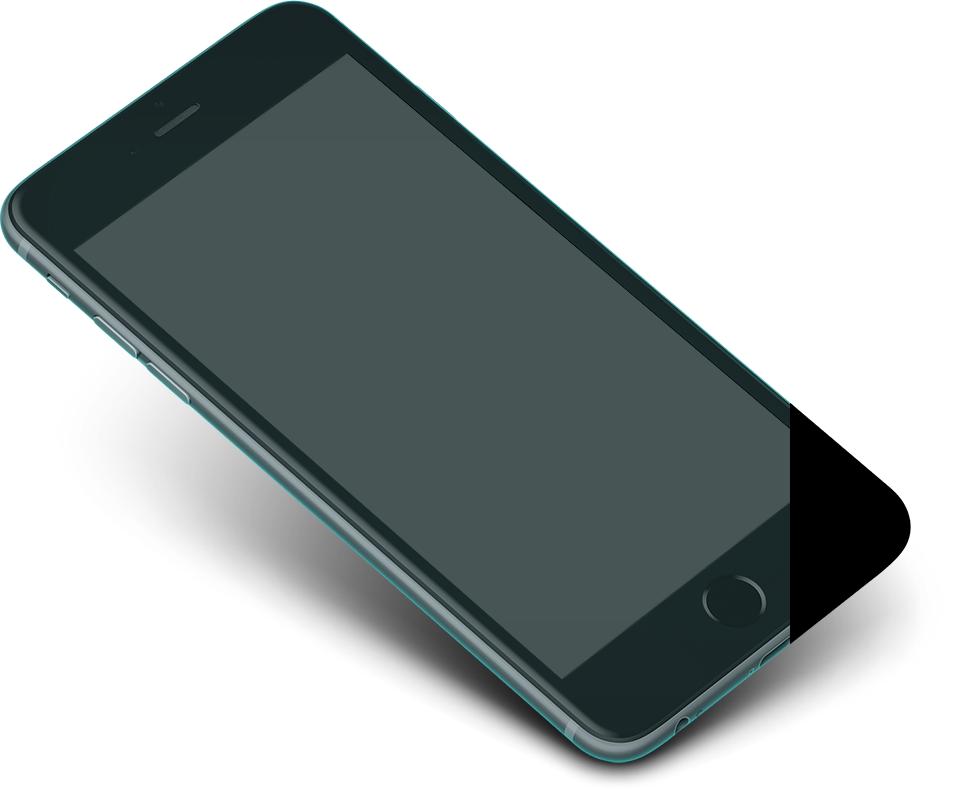
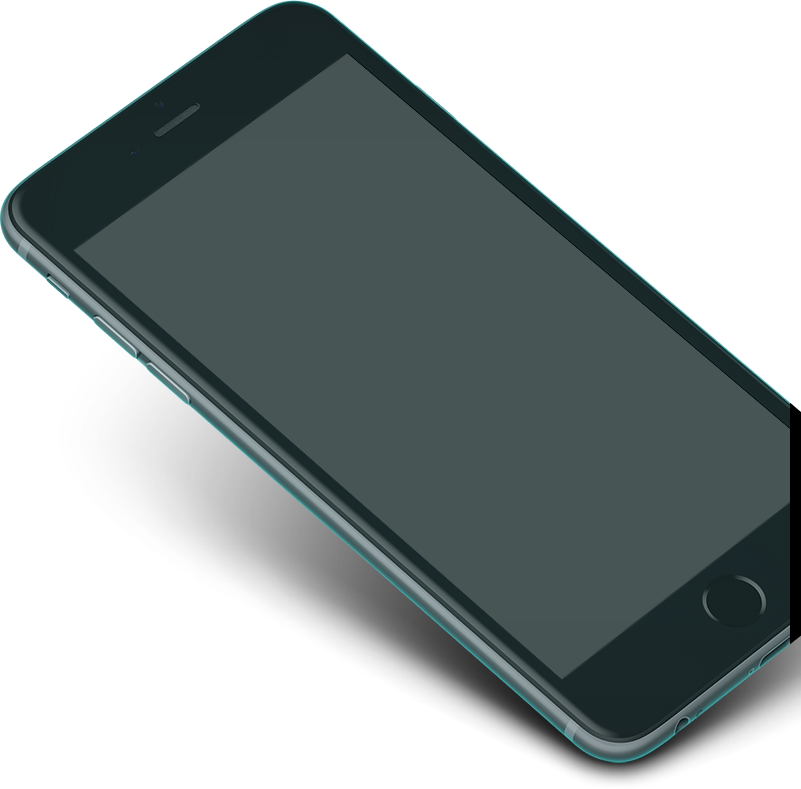
started with iphone section

Changed region(s): [[0.0, 0.0, 1.0, 1.0]]

diff --git a/src/index.html b/src/index.html
@@ -11,7 +11,7 @@
     <body>
         <!-- Promo section -->
         <section class="promo">
-            <div class="container">
+            <div class="container-small">
                 <nav class="nav">
                     <div class="nav__logo">
                         <img src="icons/logo.png" alt="Fjord logo">
@@ -38,7 +38,7 @@
 
         <!-- Features-first section -->
         <section class="features-first">
-            <div class="container">
+            <div class="container-small">
                 <div class="features-first__wrapper">
                     <div class="features-first__item">
                         <div class="icon">
@@ -87,6 +87,71 @@
                         </h3>
                         <p class="features-first__text">She gave my mother such a turn, that I have always been convinced I am indebted to Miss Betsey for having been born on a Friday.</p>
                         <a href="#" class="features-first__link">get started</a>
+                    </div>
+                </div>
+            </div>
+        </section>
+
+        <!-- Iphone section -->
+        <section class="iphone">
+            <div class="container">
+                <div class="iphone__wrapper">
+                    <div class="iphone__carousel">
+                        <!-- <img src="img/device.png" alt="iphone" class="iphone__img"> -->
+                        <img src="img/slides_test.png" alt="test" class="iphone__slide">
+                        <div class="iphone__back"></div>
+                        <div class="iphone__next"></div>
+                    </div>
+                    <div class="iphone__descr-block">
+                        <div class="iphone__description">
+                            <div class="icon">
+                                <svg width="57px" height="57px"  viewBox="0 0 57 57">
+                                    <path fill-rule="evenodd"  fill="#2f3238"
+                                    d="M51.999756,55.999146 C51.999756,55.999146 5.999878,55.999146 5.999878,55.999146 C3.7907104,55.999146 1.9998779,54.208374 1.9998779,51.99939 C1.9998779,51.99939 1.9998779,5.9992676 1.9998779,5.9992676 C1.9998779,3.7901611 3.7907104,1.9995117 5.999878,1.9995117 C5.999878,1.9995117 48.999878,1.9995117 48.999878,1.9995117 C49.552124,1.9995117 49.999878,2.4467773 49.999878,2.9993896 C49.999878,3.5515137 49.552124,3.9993896 48.999878,3.9993896 C48.999878,3.9993896 5.999878,3.9993896 5.999878,3.9993896 C4.8953247,3.9993896 3.999878,4.894409 3.999878,5.9992676 C3.999878,5.9992676 3.999878,51.99939 3.999878,51.99939 C3.999878,53.103638 4.8953247,53.999268 5.999878,53.999268 C5.999878,53.999268 51.999756,53.999268 51.999756,53.999268 C53.104492,53.999268 53.999878,53.103638 53.999878,51.99939 C53.999878,51.99939 53.999878,2.9993896 53.999878,2.9993896 C53.999878,2.4467773 54.44763,1.9995117 54.999878,1.9995117 C55.552124,1.9995117 55.999756,2.4467773 55.999756,2.9993896 C55.999756,2.9993896 55.999756,51.99939 55.999756,51.99939 C55.999756,54.208374 54.208984,55.999146 51.999756,55.999146 ZM8.999878,15.9991455 C8.999878,15.9991455 54.999878,15.9991455 54.999878,15.9991455 C55.552124,15.9991455 55.999756,16.4469 55.999756,16.999512 C55.999756,17.551147 55.552124,17.999512 54.999878,17.999512 C54.999878,17.999512 8.999878,17.999512 8.999878,17.999512 C8.447571,17.999512 7.999817,17.551147 7.999817,16.999512 C7.999817,16.4469 8.447571,15.9991455 8.999878,15.9991455 Z"/>
+                                </svg>
+                                <svg width="57px" height="57px"  viewBox="0 0 57 57">
+                                    <path fill-rule="evenodd"  fill="#26e6e6"
+                                    d="M3.999878,13.999634 C5.104431,13.999634 5.999817,14.895142 5.999817,15.999023 C5.999817,17.10376 5.104431,17.998901 3.999878,17.998901 C2.8953247,17.998901 1.9998169,17.10376 1.9998169,15.999023 C1.9998169,14.895142 2.8953247,13.999634 3.999878,13.999634 ZM11.999878,13.999634 C13.10437,13.999634 13.999878,14.895142 13.999878,15.999023 C13.999878,17.10376 13.10437,17.998901 11.999878,17.998901 C10.895325,17.998901 9.999939,17.10376 9.999939,15.999023 C9.999939,14.895142 10.895325,13.999634 11.999878,13.999634 ZM19.999878,13.999634 C21.10437,13.999634 21.999878,14.895142 21.999878,15.999023 C21.999878,17.10376 21.10437,17.998901 19.999878,17.998901 C18.895386,17.998901 17.999878,17.10376 17.999878,15.999023 C17.999878,14.895142 18.895386,13.999634 19.999878,13.999634 ZM54.999878,55.99951 C54.44763,55.99951 53.999756,55.551147 53.999756,54.99951 C53.999756,54.99951 53.999756,5.999634 53.999756,5.999634 C53.999756,4.8947754 53.10437,3.9992676 51.999878,3.9992676 C51.999878,3.9992676 3.999878,3.9992676 3.999878,3.9992676 C3.999878,3.9992676 3.999878,3.9992676 3.999878,3.9992676 C3.999878,3.9992676 2.999878,3.9992676 2.999878,3.9992676 C2.4475708,3.9992676 1.9998169,3.55188 1.9998169,2.9992676 C1.9998169,2.4471436 2.4475708,1.9993896 2.999878,1.9993896 C2.999878,1.9993896 12.999878,1.9993896 12.999878,1.9993896 C12.999878,1.9993896 12.999878,1.9993896 13.0,1.9993896 C13.0,1.9993896 51.999878,1.9993896 51.999878,1.9993896 C54.208984,1.9993896 55.999878,3.790039 55.999878,5.999634 C55.999878,5.999634 55.999878,54.99951 55.999878,54.99951 C55.999878,55.551147 55.552124,55.99951 54.999878,55.99951 Z"/>
+                                </svg>
+                            </div>
+                            <div class="iphone__text">
+                                <h3 class="iphone__header">Create a beautiful website.</h3>
+                                <p class="iphone__text">Whether you want to create a blog, eCommerce store, portfolio, or all of the above, you can express your idea with a website powered by our elegant yet intuitive platform.</p>
+                            </div>
+                        </div>
+                        <div class="iphone__description">
+                            <div class="icon">
+                                <svg width="63px" height="63px"  viewBox="0 0 63 63">
+                                    <path fill-rule="evenodd"  fill="#2f3238"
+                                    d="M60.999878,61.999268 C60.44763,61.999268 59.999878,61.551514 59.999878,60.99939 C59.999878,60.99939 59.999878,17.999512 59.999878,17.999512 C59.999878,16.894775 59.104492,15.9991455 58.0,15.9991455 C58.0,15.9991455 5.999878,15.9991455 5.999878,15.9991455 C4.8953247,15.9991455 3.999939,16.894775 3.999939,17.999512 C3.999939,17.999512 3.999939,57.99951 3.999939,57.99951 C3.999939,59.10376 4.8953247,59.999878 5.999878,59.999878 C5.999878,59.999878 54.999878,59.999878 54.999878,59.999878 C55.552246,59.999878 55.999878,60.447266 55.999878,60.99939 C55.999878,61.551514 55.552246,61.999268 54.999878,61.999268 C54.999878,61.999268 5.999878,61.999268 5.999878,61.999268 C3.7907715,61.999268 1.9998779,60.208496 1.9998779,57.99951 C1.9998779,57.99951 1.9998779,17.999512 1.9998779,17.999512 C1.9998779,15.790039 3.7907715,13.999268 5.999878,13.999268 C5.999878,13.999268 58.0,13.999268 58.0,13.999268 C60.208984,13.999268 61.999878,15.790039 61.999878,17.999512 C61.999878,17.999512 61.999878,60.99939 61.999878,60.99939 C61.999878,61.551514 61.552246,61.999268 60.999878,61.999268 ZM39.999878,13.999268 C39.999878,13.999268 39.999878,5.9992676 39.999878,5.9992676 C39.999878,4.8945312 39.104492,3.9993896 38.0,3.9993896 C38.0,3.9993896 25.999878,3.9993896 25.999878,3.9993896 C24.895386,3.9993896 23.999878,4.8945312 23.999878,5.9992676 C23.999878,5.9992676 23.999878,8.999023 23.999878,8.999023 C23.999878,9.551758 23.552124,9.999512 22.999878,9.999512 C22.447632,9.999512 21.999878,9.551758 21.999878,8.999023 C21.999878,8.999023 21.999878,5.9992676 21.999878,5.9992676 C21.999878,3.7902832 23.790771,1.9995117 25.999878,1.9995117 C25.999878,1.9995117 38.0,1.9995117 38.0,1.9995117 C40.209106,1.9995117 42.0,3.7902832 42.0,5.9992676 C42.0,5.9992676 42.0,13.999268 42.0,13.999268 C40.89978,13.999268 40.453003,13.999268 39.999878,13.999268 Z"/>
+                                </svg>
+                                <svg width="43px" height="39px"  viewBox="0 0 43 39">
+                                    <path fill-rule="evenodd"  fill="#26e6e6"
+                                    d="M8.999878,1.9993896 C9.552124,1.9993896 9.999878,2.4466553 9.999878,2.9993896 C9.999878,2.9993896 9.999878,36.999268 9.999878,36.999268 C9.999878,37.55188 9.552124,37.999146 8.999878,37.999146 C8.447632,37.999146 7.999878,37.55188 7.999878,36.999268 C7.999878,36.999268 7.999878,2.9993896 7.999878,2.9993896 C7.999878,2.4466553 8.447632,1.9993896 8.999878,1.9993896 ZM2.999939,1.9993896 C3.552246,1.9993896 3.999878,2.4466553 3.999878,2.9993896 C3.999878,2.9993896 3.999878,36.999268 3.999878,36.999268 C3.999878,37.55188 3.552246,37.999146 2.999939,37.999146 C2.4475708,37.999146 1.999939,37.55188 1.999939,36.999268 C1.999939,36.999268 1.999939,2.9993896 1.999939,2.9993896 C1.999939,2.4466553 2.4475708,1.9993896 2.999939,1.9993896 ZM40.999878,1.9993896 C41.552246,1.9993896 41.999878,2.4466553 41.999878,2.9993896 C41.999878,2.9993896 41.999878,36.999268 41.999878,36.999268 C41.999878,37.55188 41.552246,37.999146 40.999878,37.999146 C40.44763,37.999146 40.0,37.55188 40.0,36.999268 C40.0,36.999268 40.0,2.9993896 40.0,2.9993896 C40.0,2.4466553 40.44763,1.9993896 40.999878,1.9993896 ZM34.999878,1.9993896 C35.552246,1.9993896 36.0,2.4466553 36.0,2.9993896 C36.0,2.9993896 36.0,36.999268 36.0,36.999268 C36.0,37.55188 35.552246,37.999146 34.999878,37.999146 C34.44763,37.999146 33.999878,37.55188 33.999878,36.999268 C33.999878,36.999268 33.999878,2.9993896 33.999878,2.9993896 C33.999878,2.4466553 34.44763,1.9993896 34.999878,1.9993896 Z"/>
+                                </svg>
+                            </div>
+                            <div class="iphone__text">
+                                <h3 class="iphone__header">Make your our business.</h3>
+                                <p class="iphone__text">From goods to services, every business needs a space online to bring in customers.</p>
+                            </div>
+                        </div>
+                        <div class="iphone__description">
+                            <div class="icon">
+                                <svg width="64px" height="63px"  viewBox="0 0 64 63">
+                                    <path fill-rule="evenodd"  fill="#2f3238"
+                                    d="M60.79602,14.529541 C60.79602,14.529541 24.530396,50.795532 24.530396,50.795532 C23.931885,51.39441 23.19104,51.76062 22.41687,51.902344 C22.289185,51.961792 22.150024,51.999268 21.999878,51.999268 C21.999878,51.999268 12.999878,51.999268 12.999878,51.999268 C12.999878,51.999268 12.999878,51.999268 12.999878,51.999268 C12.861877,51.999268 12.730286,51.97119 12.610657,51.92102 C12.371399,51.81958 12.1796875,51.628174 12.078491,51.38855 C12.027893,51.26892 11.999939,51.137573 11.999939,50.999268 C11.999939,50.999268 11.999939,42.31482 11.999939,42.31482 C11.999634,42.289673 11.999634,42.26465 11.999939,42.238525 C11.999939,42.238525 11.999939,41.99939 11.999939,41.99939 C11.999939,41.922607 12.027222,41.854736 12.043518,41.782837 C12.149475,40.926147 12.514526,40.09497 13.172363,39.4375 C13.172363,39.4375 49.43799,3.1715088 49.43799,3.1715088 C51.006226,1.6036377 53.548706,1.6036377 55.116943,3.1715088 C55.116943,3.1715088 60.79602,8.85083 60.79602,8.85083 C62.364258,10.419067 62.364258,12.961304 60.79602,14.529541 ZM59.414185,10.244873 C59.414185,10.244873 53.72278,4.5533447 53.72278,4.5533447 C52.93701,3.7679443 51.66284,3.7679443 50.877075,4.5533447 C50.877075,4.5533447 13.999878,41.430542 13.999878,41.430542 C13.999878,41.430542 13.999878,41.99939 13.999878,41.99939 C13.999878,41.99939 13.999878,49.999878 13.999878,49.999878 C13.999878,49.999878 21.999878,49.999878 21.999878,49.999878 C21.999878,49.999878 22.505615,49.999878 22.505615,49.999878 C22.505615,49.999878 59.414185,13.091187 59.414185,13.091187 C60.200073,12.30481 60.200073,11.030762 59.414185,10.244873 ZM13.289307,40.28882 C13.697388,39.88037 14.358948,39.88037 14.767029,40.28882 C14.767029,40.28882 23.677856,49.19922 23.677856,49.19922 C24.085938,49.608154 24.085938,50.269043 23.677856,50.677002 C23.269775,51.08496 22.608276,51.08496 22.200195,50.677002 C22.200195,50.677002 13.289307,41.766113 13.289307,41.766113 C12.881226,41.358643 12.881226,40.696777 13.289307,40.28882 ZM43.289307,11.288574 C43.697388,10.880249 44.35901,10.880249 44.76709,11.288574 C44.76709,11.288574 48.677856,15.199341 48.677856,15.199341 C49.085938,15.607788 49.085938,16.269165 48.677856,16.677124 C48.269775,17.085083 47.608276,17.085083 47.200195,16.677124 C47.200195,16.677124 43.289307,12.766357 43.289307,12.766357 C42.881226,12.358398 42.881226,11.6970215 43.289307,11.288574 ZM2.999939,1.9993896 C3.552185,1.9993896 3.999939,2.4471436 3.999939,2.9992676 C3.999939,2.9992676 3.999939,60.999146 3.999939,60.999146 C3.999939,61.551758 3.552185,61.999146 2.999939,61.999146 C2.4476318,61.999146 1.9998779,61.551758 1.9998779,60.999146 C1.9998779,60.999146 1.9998779,2.9992676 1.9998779,2.9992676 C1.9998779,2.4471436 2.4476318,1.9993896 2.999939,1.9993896 ZM61.999878,60.999146 C61.999878,61.551758 61.552246,61.999146 60.999878,61.999146 C60.999878,61.999146 8.999878,61.999146 8.999878,61.999146 C8.447571,61.999146 7.999939,61.551758 7.999939,60.999146 C7.999939,60.44702 8.447571,59.999268 8.999878,59.999268 C8.999878,59.999268 60.999878,59.999268 60.999878,59.999268 C61.552246,59.999268 61.999878,60.44702 61.999878,60.999146 ZM2.999939,1.9993896 C2.999939,1.9993896 33.0,1.9993896 33.0,1.9993896 C33.552246,1.9993896 33.999878,2.4471436 33.999878,2.9992676 C33.999878,3.55188 33.552246,3.9992676 33.0,3.9992676 C33.0,3.9992676 2.999939,3.9992676 2.999939,3.9992676 C2.4476318,3.9992676 1.9998779,3.55188 1.9998779,2.9992676 C1.9998779,2.4471436 2.4476318,1.9993896 2.999939,1.9993896 ZM59.999878,60.999146 C59.999878,60.999146 59.999878,30.999023 59.999878,30.999023 C59.999878,30.4469 60.44763,29.999146 60.999878,29.999146 C61.552246,29.999146 61.999878,30.4469 61.999878,30.999023 C61.999878,30.999023 61.999878,60.999146 61.999878,60.999146 C61.999878,61.551758 61.552246,61.999146 60.999878,61.999146 C60.44763,61.999146 59.999878,61.551758 59.999878,60.999146 Z"/>
+                                </svg>
+                                <svg width="24px" height="24px"  viewBox="0 0 24 24">
+                                    <path fill-rule="evenodd"  fill="#26e6e6"
+                                    d="M21.710571,2.2890625 C22.11853,2.6968994 22.11853,3.3582764 21.710571,3.7662354 C21.710571,3.7662354 3.7996826,21.677612 3.7996826,21.677612 C3.3916016,22.085083 2.7299805,22.085083 2.3218994,21.677612 C1.9138184,21.269653 1.9138184,20.6073 2.3218994,20.19934 C2.3218994,20.19934 20.232788,2.2890625 20.232788,2.2890625 C20.640747,1.8806152 21.30249,1.8806152 21.710571,2.2890625 Z"/>
+                                </svg>
+                            </div>
+                            <div class="iphone__text">
+                                <h3 class="iphone__header">Be artist</h3>
+                                <p class="iphone__text">An artist should always have control over their creative process.</p>
+                            </div>
+                        </div>
+                        <button class="btn btn-iphone">get started</button>
                     </div>
                 </div>
             </div>

diff --git a/src/css/style.min.css b/src/css/style.min.css
@@ -4,4 +4,4 @@
  * Copyright 2011-2019 Twitter, Inc.
  * Licensed under MIT (https://github.com/twbs/bootstrap/blob/master/LICENSE)
  * Forked from Normalize.css, licensed MIT (https://github.com/necolas/normalize.css/blob/master/LICENSE.md)
- */*,::after,::before{box-sizing:border-box}html{font-family:sans-serif;line-height:1.15;-webkit-text-size-adjust:100%;-webkit-tap-highlight-color:transparent}article,aside,figcaption,figure,footer,header,hgroup,main,nav,section{display:block}body{margin:0;font-family:-apple-system,BlinkMacSystemFont,"Segoe UI",Roboto,"Helvetica Neue",Arial,"Noto Sans",sans-serif,"Apple Color Emoji","Segoe UI Emoji","Segoe UI Symbol","Noto Color Emoji";font-size:1rem;font-weight:400;line-height:1.5;color:#212529;text-align:left;background-color:#fff}[tabindex="-1"]:focus:not(:focus-visible){outline:0!important}hr{box-sizing:content-box;height:0;overflow:visible}h1,h2,h3,h4,h5,h6{margin-top:0;margin-bottom:.5rem}p{margin-top:0;margin-bottom:1rem}abbr[data-original-title],abbr[title]{text-decoration:underline;-webkit-text-decoration:underline dotted;text-decoration:underline dotted;cursor:help;border-bottom:0;-webkit-text-decoration-skip-ink:none;text-decoration-skip-ink:none}address{margin-bottom:1rem;font-style:normal;line-height:inherit}dl,ol,ul{margin-top:0;margin-bottom:1rem}ol ol,ol ul,ul ol,ul ul{margin-bottom:0}dt{font-weight:700}dd{margin-bottom:.5rem;margin-left:0}blockquote{margin:0 0 1rem}b,strong{font-weight:bolder}small{font-size:80%}sub,sup{position:relative;font-size:75%;line-height:0;vertical-align:baseline}sub{bottom:-.25em}sup{top:-.5em}a{color:#007bff;text-decoration:none;background-color:transparent}a:hover{color:#0056b3;text-decoration:underline}a:not([href]){color:inherit;text-decoration:none}a:not([href]):hover{color:inherit;text-decoration:none}code,kbd,pre,samp{font-family:SFMono-Regular,Menlo,Monaco,Consolas,"Liberation Mono","Courier New",monospace;font-size:1em}pre{margin-top:0;margin-bottom:1rem;overflow:auto}figure{margin:0 0 1rem}img{vertical-align:middle;border-style:none}svg{overflow:hidden;vertical-align:middle}table{border-collapse:collapse}caption{padding-top:.75rem;padding-bottom:.75rem;color:#6c757d;text-align:left;caption-side:bottom}th{text-align:inherit}label{display:inline-block;margin-bottom:.5rem}button{border-radius:0}button:focus{outline:1px dotted;outline:5px auto -webkit-focus-ring-color}button,input,optgroup,select,textarea{margin:0;font-family:inherit;font-size:inherit;line-height:inherit}button,input{overflow:visible}button,select{text-transform:none}select{word-wrap:normal}[type=button],[type=reset],[type=submit],button{-webkit-appearance:button}[type=button]:not(:disabled),[type=reset]:not(:disabled),[type=submit]:not(:disabled),button:not(:disabled){cursor:pointer}[type=button]::-moz-focus-inner,[type=reset]::-moz-focus-inner,[type=submit]::-moz-focus-inner,button::-moz-focus-inner{padding:0;border-style:none}input[type=checkbox],input[type=radio]{box-sizing:border-box;padding:0}input[type=date],input[type=datetime-local],input[type=month],input[type=time]{-webkit-appearance:listbox}textarea{overflow:auto;resize:vertical}fieldset{min-width:0;padding:0;margin:0;border:0}legend{display:block;width:100%;max-width:100%;padding:0;margin-bottom:.5rem;font-size:1.5rem;line-height:inherit;color:inherit;white-space:normal}progress{vertical-align:baseline}[type=number]::-webkit-inner-spin-button,[type=number]::-webkit-outer-spin-button{height:auto}[type=search]{outline-offset:-2px;-webkit-appearance:none}[type=search]::-webkit-search-decoration{-webkit-appearance:none}::-webkit-file-upload-button{font:inherit;-webkit-appearance:button}output{display:inline-block}summary{display:list-item;cursor:pointer}template{display:none}[hidden]{display:none!important}@font-face{font-family:Montserrat;font-style:normal;font-weight:100;src:local("Montserrat Thin"),local("Montserrat-Thin"),url(../fonts/montserrat-v14-latin-100.woff2) format("woff2"),url(../fonts/montserrat-v14-latin-100.woff) format("woff")}@font-face{font-family:Montserrat;font-style:normal;font-weight:300;src:local("Montserrat Light"),local("Montserrat-Light"),url(../fonts/montserrat-v14-latin-300.woff2) format("woff2"),url(../fonts/montserrat-v14-latin-300.woff) format("woff")}@font-face{font-family:Montserrat;font-style:normal;font-weight:900;src:local("Montserrat Black"),local("Montserrat-Black"),url(../fonts/montserrat-v14-latin-900.woff2) format("woff2"),url(../fonts/montserrat-v14-latin-900.woff) format("woff")}*{font-family:Montserrat,sans-serif;margin:0}.container{max-width:1140px;padding-right:15px;padding-left:15px;margin-right:auto;margin-left:auto}.row{display:flex;flex-wrap:wrap;margin-right:-15px;margin-left:-15px}.col-lg-1,.col-lg-3,.col-lg-4,.col-lg-5{position:relative;width:100%;padding-right:15px;padding-left:15px}.col-lg-1{flex:0 0 8.333333%;max-width:8.333333%}.col-lg-3{flex:0 0 25%;max-width:25%}.col-lg-4{flex:0 0 33.333333%;max-width:33.333333%}.col-lg-5{flex:0 0 41.666667%;max-width:41.666667%}.btn{font-size:12px;line-height:1.2;font-weight:300;text-transform:uppercase;letter-spacing:.05em;width:152px;height:42px;background-color:#000;border:none;border-radius:2px;color:#fff}.icon{position:relative;margin-bottom:auto}.icon-inside{position:absolute;left:50%;top:20%;transform:translateX(-50%)}.icon-inside__2{top:30%}.icon-inside__3{left:35%;top:25%}.promo{min-height:897px;background:url(../img/bg_1.jpg) center center/cover no-repeat;padding:47px 0 0 0}.promo__title{margin-top:208px;margin-left:-8px;font-size:72px;line-height:80px;font-weight:100;text-transform:uppercase;letter-spacing:.05em;color:#000;max-width:60%}.promo__label{margin-top:15px;font-size:12px;line-height:1.2;font-weight:300;text-transform:uppercase;letter-spacing:.05em;color:#232323}.nav{display:flex;justify-content:flex-end;align-items:center}.nav__logo{margin-right:auto}.nav:last-child{margin-right:69px}.menu{display:flex;justify-content:space-between;list-style-type:none;margin-bottom:0}.menu__item{margin-right:29px}.menu__link,.menu__link:link,.menu__link:visited{font-size:12px;line-height:1.2;font-weight:300;text-transform:uppercase;letter-spacing:.05em;opacity:.5;color:#232323}.menu__link:hover{opacity:1;text-decoration:none}.hamburger{position:fixed;right:15px;top:47px;width:20px;height:12px;z-index:100;cursor:pointer}.hamburger span{display:block;height:2px;width:100%;background-color:#232323;margin-bottom:2px;transition:.5px}.hamburger__active span{margin-bottom:-2px}.hamburger__active span:nth-child(1){transform:translateY(3px) rotate(-45deg)}.hamburger__active span:nth-child(2){display:none}.hamburger__active span:nth-child(3){transform:translateY(3px) rotate(45deg)}.features-first{margin-top:-15px;min-height:383px}.features-first__wrapper{display:flex;justify-content:space-around;min-height:260px}.features-first__item{max-width:24.5%;text-align:center;display:flex;flex-direction:column;justify-content:flex-end;align-items:center}.features-first__heading{font-size:14px;line-height:22px;font-weight:300;color:#232323;margin-top:28px;height:35px;text-transform:uppercase;letter-spacing:.05em;display:flex;align-items:center}.features-first__heading span{width:48px;height:24px;margin-left:9px;padding:7px;background-color:#26e6e6;border-radius:12px;font-size:12px;line-height:1.2;font-weight:300;text-transform:uppercase;letter-spacing:.05em;font-size:10px;color:#fff}.features-first__text{font-size:14px;line-height:22px;font-weight:300;color:#232323;margin-top:30px;opacity:.5}.features-first__link{font-size:12px;line-height:1.2;font-weight:300;text-transform:uppercase;letter-spacing:.05em;margin-top:28px;color:#232323}
+ */*,::after,::before{box-sizing:border-box}html{font-family:sans-serif;line-height:1.15;-webkit-text-size-adjust:100%;-webkit-tap-highlight-color:transparent}article,aside,figcaption,figure,footer,header,hgroup,main,nav,section{display:block}body{margin:0;font-family:-apple-system,BlinkMacSystemFont,"Segoe UI",Roboto,"Helvetica Neue",Arial,"Noto Sans",sans-serif,"Apple Color Emoji","Segoe UI Emoji","Segoe UI Symbol","Noto Color Emoji";font-size:1rem;font-weight:400;line-height:1.5;color:#212529;text-align:left;background-color:#fff}[tabindex="-1"]:focus:not(:focus-visible){outline:0!important}hr{box-sizing:content-box;height:0;overflow:visible}h1,h2,h3,h4,h5,h6{margin-top:0;margin-bottom:.5rem}p{margin-top:0;margin-bottom:1rem}abbr[data-original-title],abbr[title]{text-decoration:underline;-webkit-text-decoration:underline dotted;text-decoration:underline dotted;cursor:help;border-bottom:0;-webkit-text-decoration-skip-ink:none;text-decoration-skip-ink:none}address{margin-bottom:1rem;font-style:normal;line-height:inherit}dl,ol,ul{margin-top:0;margin-bottom:1rem}ol ol,ol ul,ul ol,ul ul{margin-bottom:0}dt{font-weight:700}dd{margin-bottom:.5rem;margin-left:0}blockquote{margin:0 0 1rem}b,strong{font-weight:bolder}small{font-size:80%}sub,sup{position:relative;font-size:75%;line-height:0;vertical-align:baseline}sub{bottom:-.25em}sup{top:-.5em}a{color:#007bff;text-decoration:none;background-color:transparent}a:hover{color:#0056b3;text-decoration:underline}a:not([href]){color:inherit;text-decoration:none}a:not([href]):hover{color:inherit;text-decoration:none}code,kbd,pre,samp{font-family:SFMono-Regular,Menlo,Monaco,Consolas,"Liberation Mono","Courier New",monospace;font-size:1em}pre{margin-top:0;margin-bottom:1rem;overflow:auto}figure{margin:0 0 1rem}img{vertical-align:middle;border-style:none}svg{overflow:hidden;vertical-align:middle}table{border-collapse:collapse}caption{padding-top:.75rem;padding-bottom:.75rem;color:#6c757d;text-align:left;caption-side:bottom}th{text-align:inherit}label{display:inline-block;margin-bottom:.5rem}button{border-radius:0}button:focus{outline:1px dotted;outline:5px auto -webkit-focus-ring-color}button,input,optgroup,select,textarea{margin:0;font-family:inherit;font-size:inherit;line-height:inherit}button,input{overflow:visible}button,select{text-transform:none}select{word-wrap:normal}[type=button],[type=reset],[type=submit],button{-webkit-appearance:button}[type=button]:not(:disabled),[type=reset]:not(:disabled),[type=submit]:not(:disabled),button:not(:disabled){cursor:pointer}[type=button]::-moz-focus-inner,[type=reset]::-moz-focus-inner,[type=submit]::-moz-focus-inner,button::-moz-focus-inner{padding:0;border-style:none}input[type=checkbox],input[type=radio]{box-sizing:border-box;padding:0}input[type=date],input[type=datetime-local],input[type=month],input[type=time]{-webkit-appearance:listbox}textarea{overflow:auto;resize:vertical}fieldset{min-width:0;padding:0;margin:0;border:0}legend{display:block;width:100%;max-width:100%;padding:0;margin-bottom:.5rem;font-size:1.5rem;line-height:inherit;color:inherit;white-space:normal}progress{vertical-align:baseline}[type=number]::-webkit-inner-spin-button,[type=number]::-webkit-outer-spin-button{height:auto}[type=search]{outline-offset:-2px;-webkit-appearance:none}[type=search]::-webkit-search-decoration{-webkit-appearance:none}::-webkit-file-upload-button{font:inherit;-webkit-appearance:button}output{display:inline-block}summary{display:list-item;cursor:pointer}template{display:none}[hidden]{display:none!important}@font-face{font-family:Montserrat;font-style:normal;font-weight:100;src:local("Montserrat Thin"),local("Montserrat-Thin"),url(../fonts/montserrat-v14-latin-100.woff2) format("woff2"),url(../fonts/montserrat-v14-latin-100.woff) format("woff")}@font-face{font-family:Montserrat;font-style:normal;font-weight:300;src:local("Montserrat Light"),local("Montserrat-Light"),url(../fonts/montserrat-v14-latin-300.woff2) format("woff2"),url(../fonts/montserrat-v14-latin-300.woff) format("woff")}@font-face{font-family:Montserrat;font-style:normal;font-weight:900;src:local("Montserrat Black"),local("Montserrat-Black"),url(../fonts/montserrat-v14-latin-900.woff2) format("woff2"),url(../fonts/montserrat-v14-latin-900.woff) format("woff")}*{font-family:Montserrat,sans-serif;margin:0}.container-small{max-width:980px;padding-right:10px;padding-left:10px;margin-right:auto;margin-left:auto}.container{max-width:1140px;padding-right:15px;padding-left:15px;margin-right:auto;margin-left:auto}.btn{font-size:12px;line-height:1.2;font-weight:300;text-transform:uppercase;letter-spacing:.05em;width:152px;height:42px;background-color:#000;border:none;border-radius:2px;color:#fff;cursor:pointer;transition:all .2s}.btn:active,.btn:focus{outline:0}.btn:hover{background-color:#1a1a1a;color:#26e6e6;box-shadow:3px 6px 20px #1b2028}.icon{position:relative;margin-bottom:auto}.icon-inside{position:absolute;left:50%;top:20%;transform:translateX(-50%)}.icon-inside__2{top:30%}.icon-inside__3{left:35%;top:25%}.promo{min-height:897px;background:url(../img/bg_1.jpg) center center/cover no-repeat;padding:47px 0 0 0}.promo__title{margin-top:208px;margin-left:-8px;font-size:72px;line-height:80px;font-weight:100;text-transform:uppercase;letter-spacing:.05em;color:#000;max-width:60%}.promo__label{margin-top:15px;font-size:12px;line-height:1.2;font-weight:300;text-transform:uppercase;letter-spacing:.05em;color:#232323}.nav{display:flex;justify-content:flex-end;align-items:center}.nav__logo{margin-right:auto}.nav:last-child{margin-right:69px}.menu{display:flex;justify-content:space-between;list-style-type:none;margin-bottom:0}.menu__item{margin-right:29px}.menu__link,.menu__link:link,.menu__link:visited{font-size:12px;line-height:1.2;font-weight:300;text-transform:uppercase;letter-spacing:.05em;opacity:.5;color:#232323}.menu__link:hover{opacity:1;text-decoration:none}.hamburger{position:fixed;right:15px;top:47px;width:20px;height:12px;z-index:100;cursor:pointer}.hamburger span{display:block;height:2px;width:100%;background-color:#232323;margin-bottom:2px;transition:.5px}.hamburger__active span{margin-bottom:-2px}.hamburger__active span:nth-child(1){transform:translateY(3px) rotate(-45deg)}.hamburger__active span:nth-child(2){display:none}.hamburger__active span:nth-child(3){transform:translateY(3px) rotate(45deg)}.features-first{margin-top:-15px;min-height:383px}.features-first__wrapper{display:flex;justify-content:space-around;min-height:260px}.features-first__item{max-width:29%;text-align:center;display:flex;flex-direction:column;justify-content:flex-end;align-items:center}.features-first__heading{font-size:14px;line-height:22px;font-weight:300;color:#232323;margin-top:28px;height:35px;text-transform:uppercase;letter-spacing:.05em;display:flex;align-items:center}.features-first__heading span{width:48px;height:24px;margin-left:9px;padding:7px;background-color:#26e6e6;border-radius:12px;font-size:12px;line-height:1.2;font-weight:300;text-transform:uppercase;letter-spacing:.05em;font-size:10px;color:#fff}.features-first__text{font-size:14px;line-height:22px;font-weight:300;color:#232323;margin-top:30px;opacity:.5}.features-first__link,.features-first__link:link,.features-first__link:visited{font-size:12px;line-height:1.2;font-weight:300;text-transform:uppercase;letter-spacing:.05em;margin-top:28px;color:#232323}.features-first__link:hover{color:#1b2028;background-color:#26e6e6}.iphone{min-height:900px;padding:76px 0 61px 0;background-color:#26e6e6}.iphone__wrapper{display:flex;align-items:center}.iphone__carousel{margin-left:-75px;width:801px;height:789px;background:url(../img/device.png) center center/cover no-repeat}.iphone__descr-block{width:386px;height:674px;padding:40px 34px 0 45px;background-color:#fff;border-radius:2px}

diff --git a/src/sass/base/_base.scss b/src/sass/base/_base.scss
@@ -3,6 +3,14 @@
     margin: 0;
 }
 
+.container-small {
+    max-width: 980px;
+    padding-right: 10px;
+    padding-left: 10px;
+    margin-right: auto;
+    margin-left: auto;
+}
+
 .container {
     max-width: 1140px;
     padding-right: 15px;
@@ -10,42 +18,3 @@
     margin-right: auto;
     margin-left: auto;
 }
-.row {
-    display: -ms-flexbox;
-    display: flex;
-    -ms-flex-wrap: wrap;
-    flex-wrap: wrap;
-    margin-right: -15px;
-    margin-left: -15px;
-}
-
-.col-lg-1, .col-lg-3, .col-lg-4, .col-lg-5 {
-    position: relative;
-    width: 100%;
-    padding-right: 15px;
-    padding-left: 15px;
-}
-
-.col-lg-1 {
-    -ms-flex: 0 0 8.333333%;
-    flex: 0 0 8.333333%;
-    max-width: 8.333333%;
-}
-
-.col-lg-3 {
-    -ms-flex: 0 0 25%;
-    flex: 0 0 25%;
-    max-width: 25%;
-}
-
-.col-lg-4 {
-    -ms-flex: 0 0 33.333333%;
-    flex: 0 0 33.333333%;
-    max-width: 33.333333%;
-}
-
-.col-lg-5 {
-    -ms-flex: 0 0 41.666667%;
-    flex: 0 0 41.666667%;
-    max-width: 41.666667%;
-}  

diff --git a/src/sass/blocks/_features-first.scss b/src/sass/blocks/_features-first.scss
@@ -9,7 +9,7 @@
     }
 
     &__item {
-        max-width: 24.5%;
+        max-width: 29%;
         text-align: center;
         display: flex;
         flex-direction: column;
@@ -46,8 +46,17 @@
     }
 
     &__link {
-        @include small-text;
-        margin-top: 28px;
-        color: $color-text;
+        &,
+        &:link,
+        &:visited {
+            @include small-text;
+            margin-top: 28px;
+            color: $color-text;
+        }
+
+        &:hover {
+            color: $color-dark;
+            background-color: $color-blue;
+        }
     }
 }

diff --git a/src/sass/blocks/_iphone-section.scss b/src/sass/blocks/_iphone-section.scss
@@ -1,0 +1,25 @@
+.iphone {
+    min-height: 900px;
+    padding: 76px 0 61px 0;
+    background-color: $color-blue;
+
+    &__wrapper {
+        display: flex;
+        align-items: center;
+    }
+
+    &__carousel {
+        margin-left: -75px;
+        width: 801px;
+        height: 789px;
+        background: url(../img/device.png) center center/cover no-repeat;
+    }
+
+    &__descr-block {
+        width: 386px;
+        height: 674px;
+        padding: 40px 34px 0 45px;
+        background-color: $color-white;
+        border-radius: 2.0px;
+    }
+}

diff --git a/src/sass/blocks/_buttons.scss b/src/sass/blocks/_buttons.scss
@@ -6,4 +6,16 @@
     border: none;
     border-radius: 2.0px;
     color: $color-white;
+    cursor: pointer;
+    transition: all .2s;
+
+    &:active, &:focus {
+        outline: none;
+    }
+
+    &:hover {
+        background-color: lighten($color-black, 10%);
+        color: $color-blue;
+        box-shadow: $shadow-dark;
+    }
 }

diff --git a/src/sass/base/_variables.scss b/src/sass/base/_variables.scss
@@ -14,3 +14,5 @@ $color-grey-light-1: #cbcbcb;
 $color-grey-light-2: #f2f4f9;
 $color-grey-light-3: #f5f6f8;
 $color-grey-light-4: #fffefe;
+
+$shadow-dark: 3px 6px 20px $color-dark;

diff --git a/src/sass/style.scss b/src/sass/style.scss
@@ -9,3 +9,4 @@
 @import './blocks/promo';
 @import './blocks/navigation';
 @import './blocks/features-first';
+@import './blocks/iphone-section';
